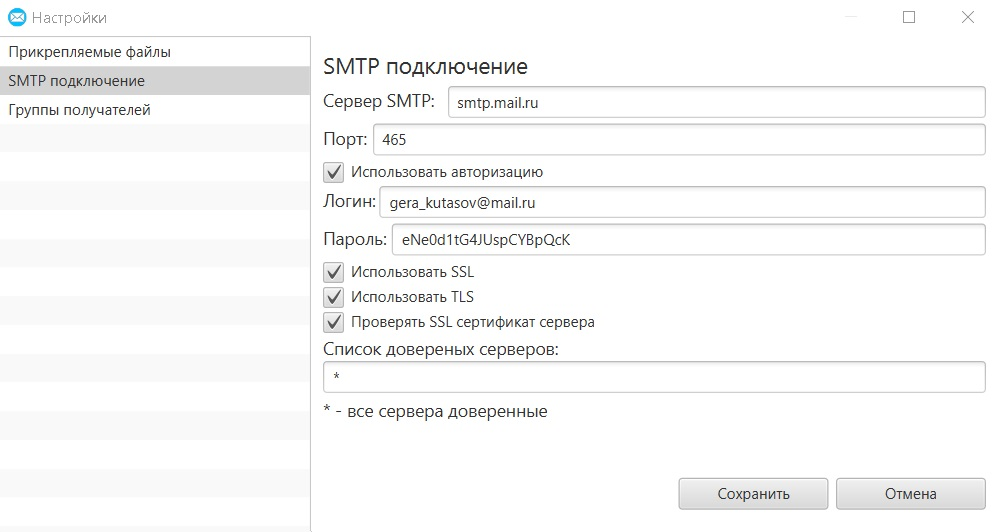
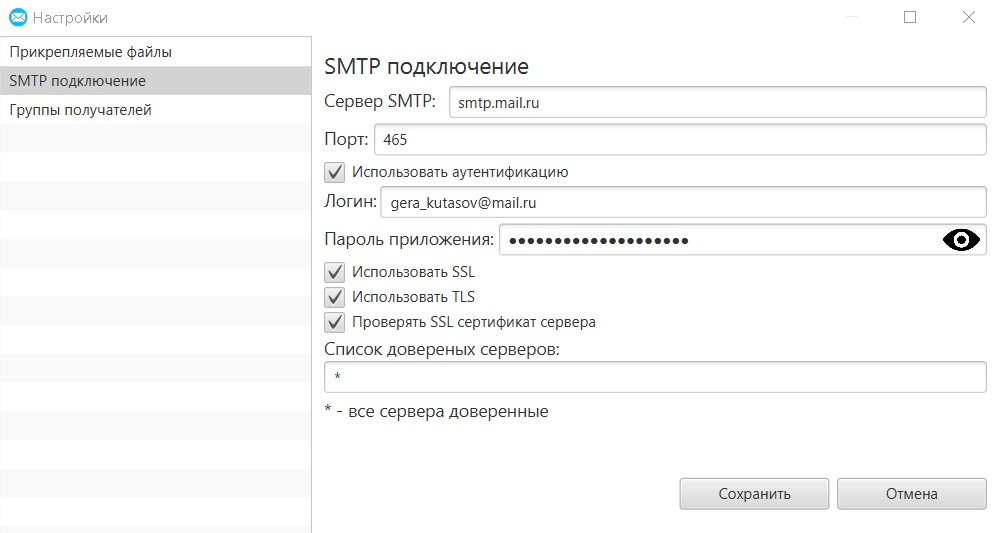
update tutorial

diff --git a/src/main/java/com/example/smtpautosendmessage/TutorialController.java b/src/main/java/com/example/smtpautosendmessage/TutorialController.java
@@ -87,13 +87,13 @@ public class TutorialController {
             "В данном окне можно сформировать и отправить письмо. Поле \"Получател(и):\" можно заполнить вручную или выбрать в выпадающем списке группу получателей. Поле \"Заголовок(и):\" формируется из полей \"Суффикс:\" и \"Префикс:\", а также из названий прикрепляемых файлов.",
             "В данном меню кнопка \"Экспортировать\" позволяет сохранить копию конфигурационного файла. Кнопка \"Импортировать\" позволяет загрузить настройки выбранного конфигурационного файла, текущий конфигурационный файл будет перезаписан. Копии не перезаписываются.",
             "В данном меню кнопка \"Очистить\" стирает все данные с полей формы. Кнопка \"Загрузить из конфигурации\" позволяет загрузить данные полей формы из конфигурации. Кнопка \"Сохранить в конфигурацию\" позволяет сохранить данные полей формы в конфигурацию.",
-            "В данном окне можно настроить отправляемые файлы, группы получателей и SMTP подключение к серверу, которое нужно смотреть в меню \"Руководство\" > Страница \"Список гиперссылок на инструкции для настройки SMTP-серверов\"",
+            "В данном окне можно настроить отправляемые файлы, группы получателей и SMTP подключение к серверу, которое нужно смотреть в меню \"Руководство\" > Страница \"Список гиперссылок на инструкции для настройки SMTP-серверов\".",
             "На данной странице можно выбрать папку с прикрепляемыми файлами. Названия файлов будут отображаться в сгенерированном поле \"Заголовок(и):\" окна \"Форма\". Кнопка \"Отмена\" закрывает окно, а кнопка \"Сохранить\" сохраняет изменения в конфигурацию.",
             "На данной странице задаются настройки SMTP подключения к серверу. По умолчанию все флажки убраны, если о них нет информации, то просто уберите их. Кнопка \"Отмена\" закрывает окно, а кнопка \"Сохранить\" сохраняет изменения в конфигурацию.",
             "На данной странице редактируются группы получателей. Поле \"Фильтр:\" фильтрует по названию группы. Создание: правой кнопкой мыши (ПКМ) по строке таблицы, затем выберите добавление. Удаление: выделите строки, нажмите по ним ПКМ и выберите удаление.",
             "Изменение: нажмите дважды по ячейке, поменяйте, нажмите \"Enter\" для применения, для отмены \"Esc\". Кнопка \"Отмена\" закрывает окно, а кнопка \"Сохранить\" сохраняет изменения в конфигурацию.",
-            "В данном окне расположены: кнопка \"Ссылки на инструкции по настройке SMTP-серверов\" ведёт на страницу с гиперссылками на инструкции по настройке различных SMTP-серверов; кнопка \"Общее руководство по приложению\" ведёт на общее руководство по приложению. Кнопка \"<\" в левом верхнем углу возвращает",
-            "На данной странице расположены ссылки для некоторых популярных почтовых серверов, перейдя по ссылкам для выбранного SMTP-сервера можно узнать что вводить в настройки SMTP подключения, логин соответствует логину пользователя почтового сервера, а пароль это пароль приложения.",
+            "В данном окне расположены: кнопка \"Ссылки на инструкции по настройке SMTP-серверов\" ведёт на страницу с гиперссылками на инструкции по настройке различных SMTP-серверов; кнопка \"Общее руководство по приложению\" ведёт на общее руководство по приложению. Кнопка \"<\" в левом верхнем углу возвращает на главную окна руководства.",
+            "На данной странице расположены ссылки для некоторых популярных почтовых серверов, перейдя по ссылкам для выбранного SMTP-сервера можно узнать что вводить в настройки SMTP подключения. Кнопка \"<\" в левом верхнем углу возвращает на главную окна руководства.",
             "На данной странице можно ознакомиться с функционалом приложения переходя по слайдам с помощью кнопок \"<\" и \">\", кнопка \"<\" в левом верхнем углу возвращает на главную страницу руководства."
     };
 
